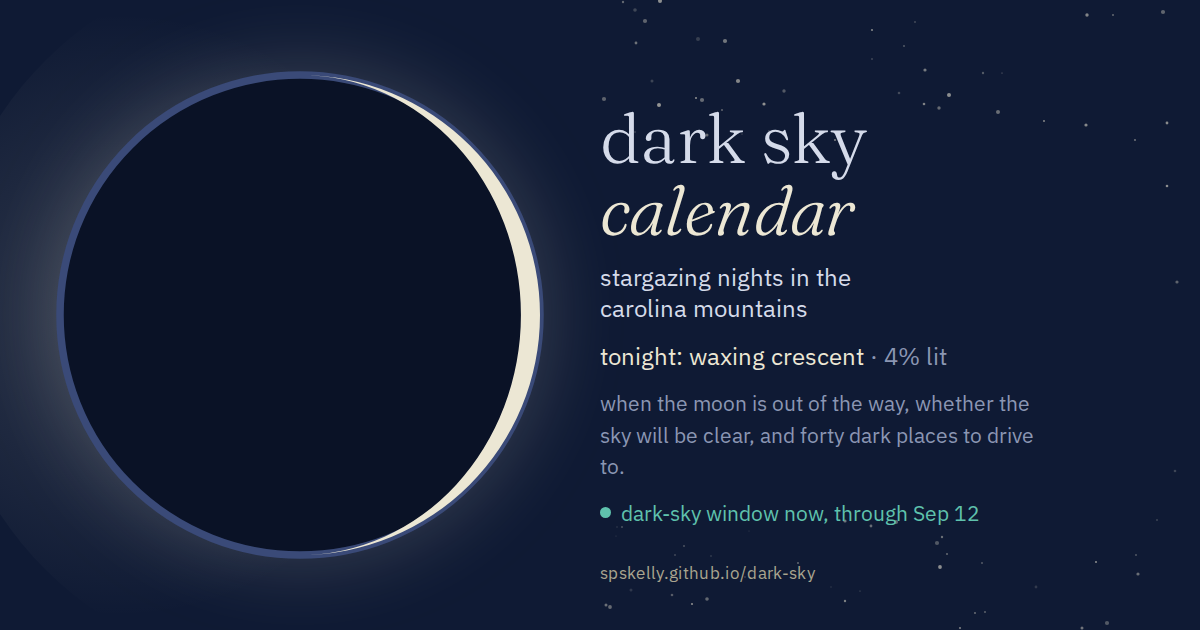
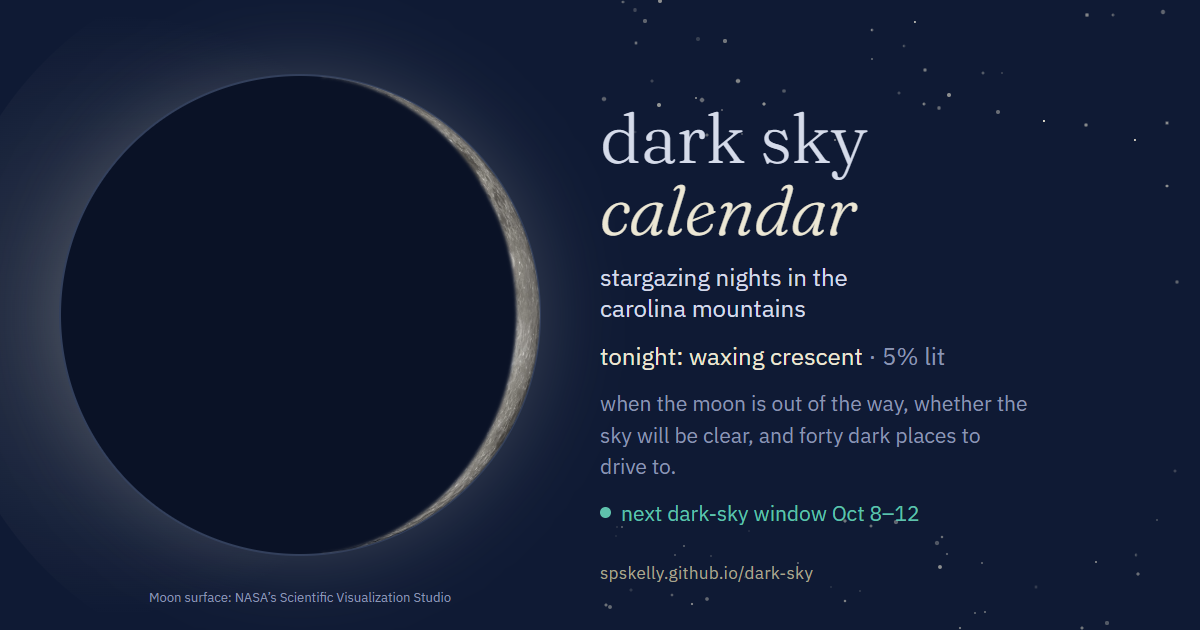
Render moon phases with NASA lunar surface imagery

diff --git a/index.html b/index.html
@@ -609,6 +609,8 @@
   phase times come from the meeus true-phase algorithm and are converted to your local time zone, so dates should match published almanacs to the day. the window is a planning heuristic: the moon also rises and sets, so a waxing crescent a few days past new is gone by late evening, and a waning crescent doesn't rise until the small hours. those edge days are often darker than they look. cloud cover comes from open-meteo and is a model, not a promise; the spot notes are hand-written and are <a href="#check-before-you-go">not a substitute for checking with the land manager</a>. the sky line beneath each one is not hand-written: it is sampled from the light pollution atlas at the spot and at eight bearings 10, 25 and 50 km out, so &ldquo;brightest to the northwest at 50 km&rdquo; means a town sits there, not that somebody remembers it that way.
 </p>
 
+<p class="foot credits">moon surface: <a href="https://svs.gsfc.nasa.gov/5415/">NASA&rsquo;s Scientific Visualization Studio</a>, Ernie Wright. Cropped and masked here to show the phases.</p>
+
 <script>
 // ---------- lunar phase math (meeus, astronomical algorithms ch. 49) ----------
 
@@ -739,10 +741,29 @@ function moonPath(p, cx, cy, r, hemi) {
 
 const nearNew = p => Math.min(p, 1 - p) < 0.02;
 
-function moonSvg(p, size, hemi) {
+// NASA SVS full-moon surface, derived from LRO data. See assets/README.md.
+const MOON_TEXTURE = 'assets/moon-full.jpg';
+let moonDrawingId = 0;
+
+function moonSvg(p, size, hemi, texture = MOON_TEXTURE) {
+  // Each inline moon needs its own paint/clip IDs, including after re-renders.
+  const id = `moon-${++moonDrawingId}`;
+  const lit = moonPath(p, 50, 50, 48, hemi);
   return `<svg viewBox="0 0 100 100" width="${size}" height="${size}" aria-hidden="true">
-    <circle cx="50" cy="50" r="48" fill="#0a1226" stroke="#3a4a78" stroke-width="1.5"/>
-    ${nearNew(p) ? '' : `<path d="${moonPath(p, 50, 50, 48, hemi)}" fill="var(--moon)"/>`}
+    <defs>
+      <clipPath id="${id}-disc"><circle cx="50" cy="50" r="48"/></clipPath>
+      <filter id="${id}-soft"><feGaussianBlur stdDeviation=".3"/></filter>
+      <mask id="${id}-lit" maskUnits="userSpaceOnUse" x="0" y="0" width="100" height="100">
+        <path d="${lit}" fill="white" filter="url(#${id}-soft)"/>
+      </mask>
+    </defs>
+    <circle cx="50" cy="50" r="48" fill="#0a1226" stroke="#33405c" stroke-width=".4"/>
+    ${nearNew(p) ? '' : `<g clip-path="url(#${id}-disc)" mask="url(#${id}-lit)">
+      <!-- The source disc spans roughly pixels 74–950 of a 1024px square.
+           A slight inset crops out its black background at the uneven limb. -->
+      <image href="${texture}" x="-6.367" y="-6.367" width="112.734" height="112.734"
+        transform="rotate(${hemi === 'S' ? 180 : 0} 50 50)"/>
+    </g>`}
   </svg>`;
 }
 

diff --git a/assets/README.md b/assets/README.md
@@ -1,0 +1,13 @@
+# Moon surface
+
+`moon-full.jpg` is NASA Scientific Visualization Studio's full-moon still,
+used unchanged. The SVG renderer crops the black margins and masks the lit
+portion for each phase, rotating the image 180 degrees for the southern view.
+
+- Source: [Moon Phase and Libration, 2025](https://svs.gsfc.nasa.gov/5415/), “Full Moon” in the named phases gallery.
+- Original image: https://svs.gsfc.nasa.gov/vis/a000000/a005000/a005048/phase_full.1571_print.jpg
+- Credit: NASA's Scientific Visualization Studio. Visualization by Ernie Wright; lunar terrain and imagery from Lunar Reconnaissance Orbiter.
+- Usage: [SVS public-domain policy](https://svs.gsfc.nasa.gov/help/#can-i-use-your-visualizations) and [NASA media guidelines](https://www.nasa.gov/nasa-brand-center/images-and-media/). No third-party restriction is marked on this still. NASA is credited on the site and exported social card.
+
+This is a fixed surface image with a geometric phase mask. It does not simulate
+libration or changing shadows within individual craters.

diff --git a/README.md b/README.md
@@ -58,6 +58,9 @@ works offline, and the map degrades to the list with a note.
 
 ## The moon is always current
 
+The hero, calendar and social card use a local [NASA lunar surface image](assets/README.md)
+under the phase mask. The fixed surface rotates with the hemisphere setting.
+
 Two things show tonight's real phase, and neither is hand-drawn.
 
 - **The tab icon** is generated in the browser on every render, from the same
